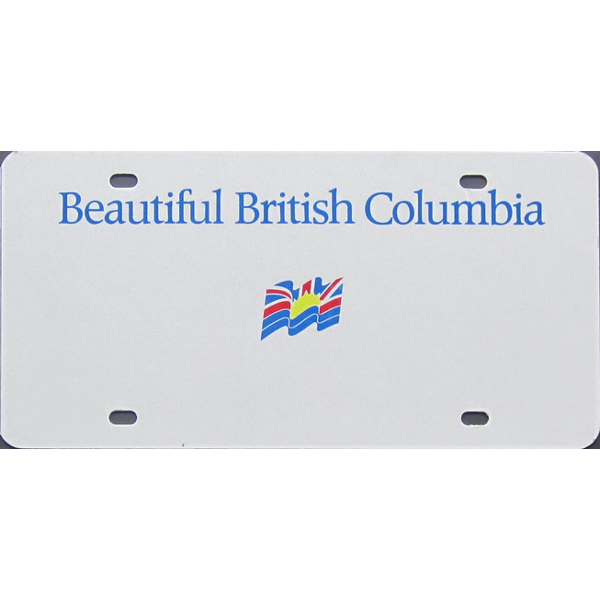
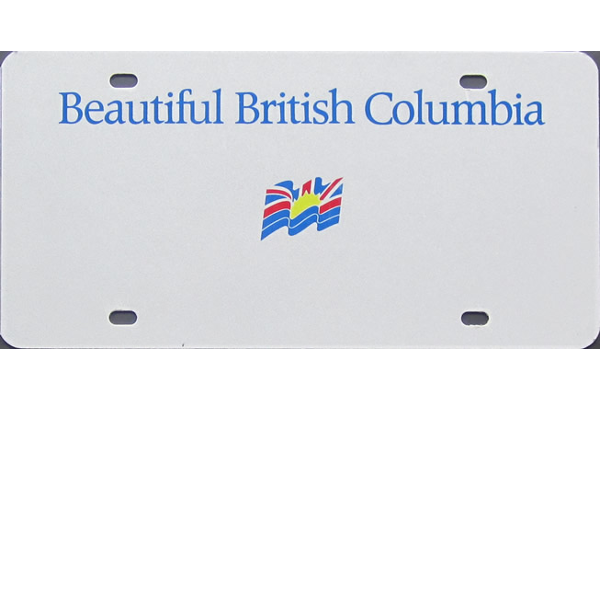
Updated license plates and added .gitignore - License plates use monospaced font and are raised by 100px.

diff --git a/enph353/enph353_gazebo/scripts/plate_generator.py b/enph353/enph353_gazebo/scripts/plate_generator.py
@@ -1,13 +1,15 @@
 #!/usr/bin/env python
 
-import pyqrcode
-import string
-import random
-from random import randint
 import cv2
-import numpy as np
 import csv
+import numpy as np
 import os
+import pyqrcode
+import random
+import string
+
+from random import randint
+from PIL import Image, ImageFont, ImageDraw
 
 path = os.path.dirname(os.path.realpath(__file__)) + "/"
 texture_path = '../media/materials/textures/'
@@ -31,9 +33,21 @@ with open(path + "plates.csv", 'w') as plates_file:
 
         # Write plate to image
         blank_plate = cv2.imread(path+'blank_plate.png')
-        cv2.putText(blank_plate,
-                    plate_alpha + " " + plate_num, (45, 360),
-                    cv2.FONT_HERSHEY_PLAIN, 11, (255, 0, 0), 7, cv2.LINE_AA)
+
+        # To use monospaced font for the license plate we need to use the PIL
+        # package.
+        # Convert into a PIL image (this is so we can use the monospaced fonts)
+        blank_plate_pil = Image.fromarray(blank_plate)
+        # Get a drawing context
+        draw = ImageDraw.Draw(blank_plate_pil)
+        monospace = ImageFont.truetype("/usr/share/fonts/truetype/ubuntu/UbuntuMono-R.ttf", 200)
+        draw.text((48, 105),plate_alpha + " " + plate_num, (255,0,0), font=monospace)
+        # Convert back to OpenCV image and save
+        blank_plate = np.array(blank_plate_pil)
+
+        # cv2.putText(blank_plate,
+        #             plate_alpha + " " + plate_num, (45, 360),
+        #             cv2.FONT_HERSHEY_PLAIN, 11, (255, 0, 0), 7, cv2.LINE_AA)
 
         # Create QR code image
         spot_name = "P" + str(i)
